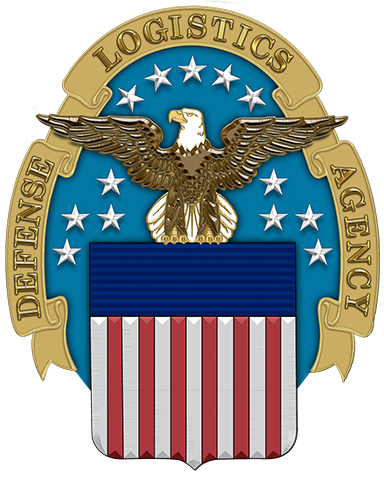
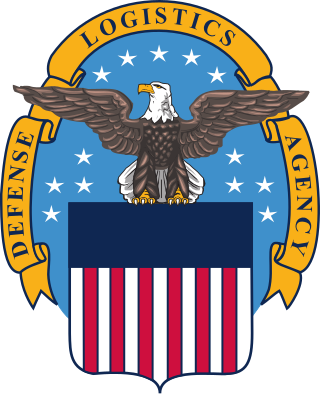
add dla image

diff --git a/index.html b/index.html
@@ -76,24 +76,30 @@
           agencies and commercial partners.
         </p>
 
-        <ul id="clients-list" class="clients-list">
-          <li class="client-logo-item client-logo-item-wide">
-            <img src="assets/images/army.png" alt="Military partner logos" class="client-logo client-logo-strip" />
+        <ul class="clients-list clients-list-single">
+          <li class="client-logo-item">
+            <img src="assets/images/dla.png" alt="Defense Logistics Agency" class="client-logo client-logo-strip" />
+          </li>
+        </ul>
+
+        <ul id="clients-list" class="clients-list clients-list-logos">
+          <li class="client-logo-item">
+            <img src="assets/images/army.png" alt="U.S. Army" class="client-logo" />
           </li>
           <li class="client-logo-item">
-            <img src="assets/images/air.webp" alt="Program management partner" class="client-logo" />
+            <img src="assets/images/air.webp" alt="U.S. Air Force" class="client-logo" />
           </li>
           <li class="client-logo-item">
-            <img src="assets/images/space.png" alt="Construction partner" class="client-logo" />
+            <img src="assets/images/navy.png" alt="U.S. Navy" class="client-logo" />
           </li>
           <li class="client-logo-item">
-            <img src="assets/images/navy.png" alt="Logistics partner" class="client-logo" />
+            <img src="assets/images/space.png" alt="U.S. Space Force" class="client-logo" />
           </li>
           <li class="client-logo-item">
-            <img src="assets/images/dod.png" alt="Logistics partner" class="client-logo" />
+            <img src="assets/images/marine.png" alt="U.S. Marines" class="client-logo" />
           </li>
           <li class="client-logo-item">
-            <img src="assets/images/marine.png" alt="Logistics partner" class="client-logo" />
+            <img src="assets/images/dod.png" alt="U.S. Department of Defense" class="client-logo" />
           </li>
         </ul>
       </div>

diff --git a/assets/css/style.css b/assets/css/style.css
@@ -393,20 +393,26 @@ a:hover {
 .clients-list {
   display: grid;
   grid-template-columns: repeat(auto-fit, minmax(160px, 1fr));
-  gap: 1rem;
+  gap: 1.2rem;
   padding: 0;
   margin: 1.5rem 0 0;
   list-style: none;
 }
 
 .clients-list.clients-list-logos {
-  grid-template-columns: repeat(auto-fit, minmax(140px, 1fr));
+  display: flex;
+  flex-wrap: nowrap;
+  gap: 1.2rem;
+  overflow-x: auto;
 }
 
 .clients-list li {
   min-height: 84px;
   border-radius: 14px;
   border: none;
+  display: flex;
+  align-items: center;
+  justify-content: center;
 }
 
 .client-logo-item {
@@ -417,15 +423,19 @@ a:hover {
 }
 
 .client-logo {
-  width: 140px;
-  height: 70px;
+  width: min(170px, 32vw);
+  max-width: 100%;
+  height: auto;
+  max-height: 90px;
   object-fit: contain;
   filter: drop-shadow(0 10px 18px rgba(0, 0, 0, 0.45));
 }
 
 .client-logo-strip {
-  width: 140px;
-  height: 70px;
+  width: min(260px, 70vw);
+  max-width: 100%;
+  height: auto;
+  max-height: 110px;
 }
 
 .client-logo-item-wide {
